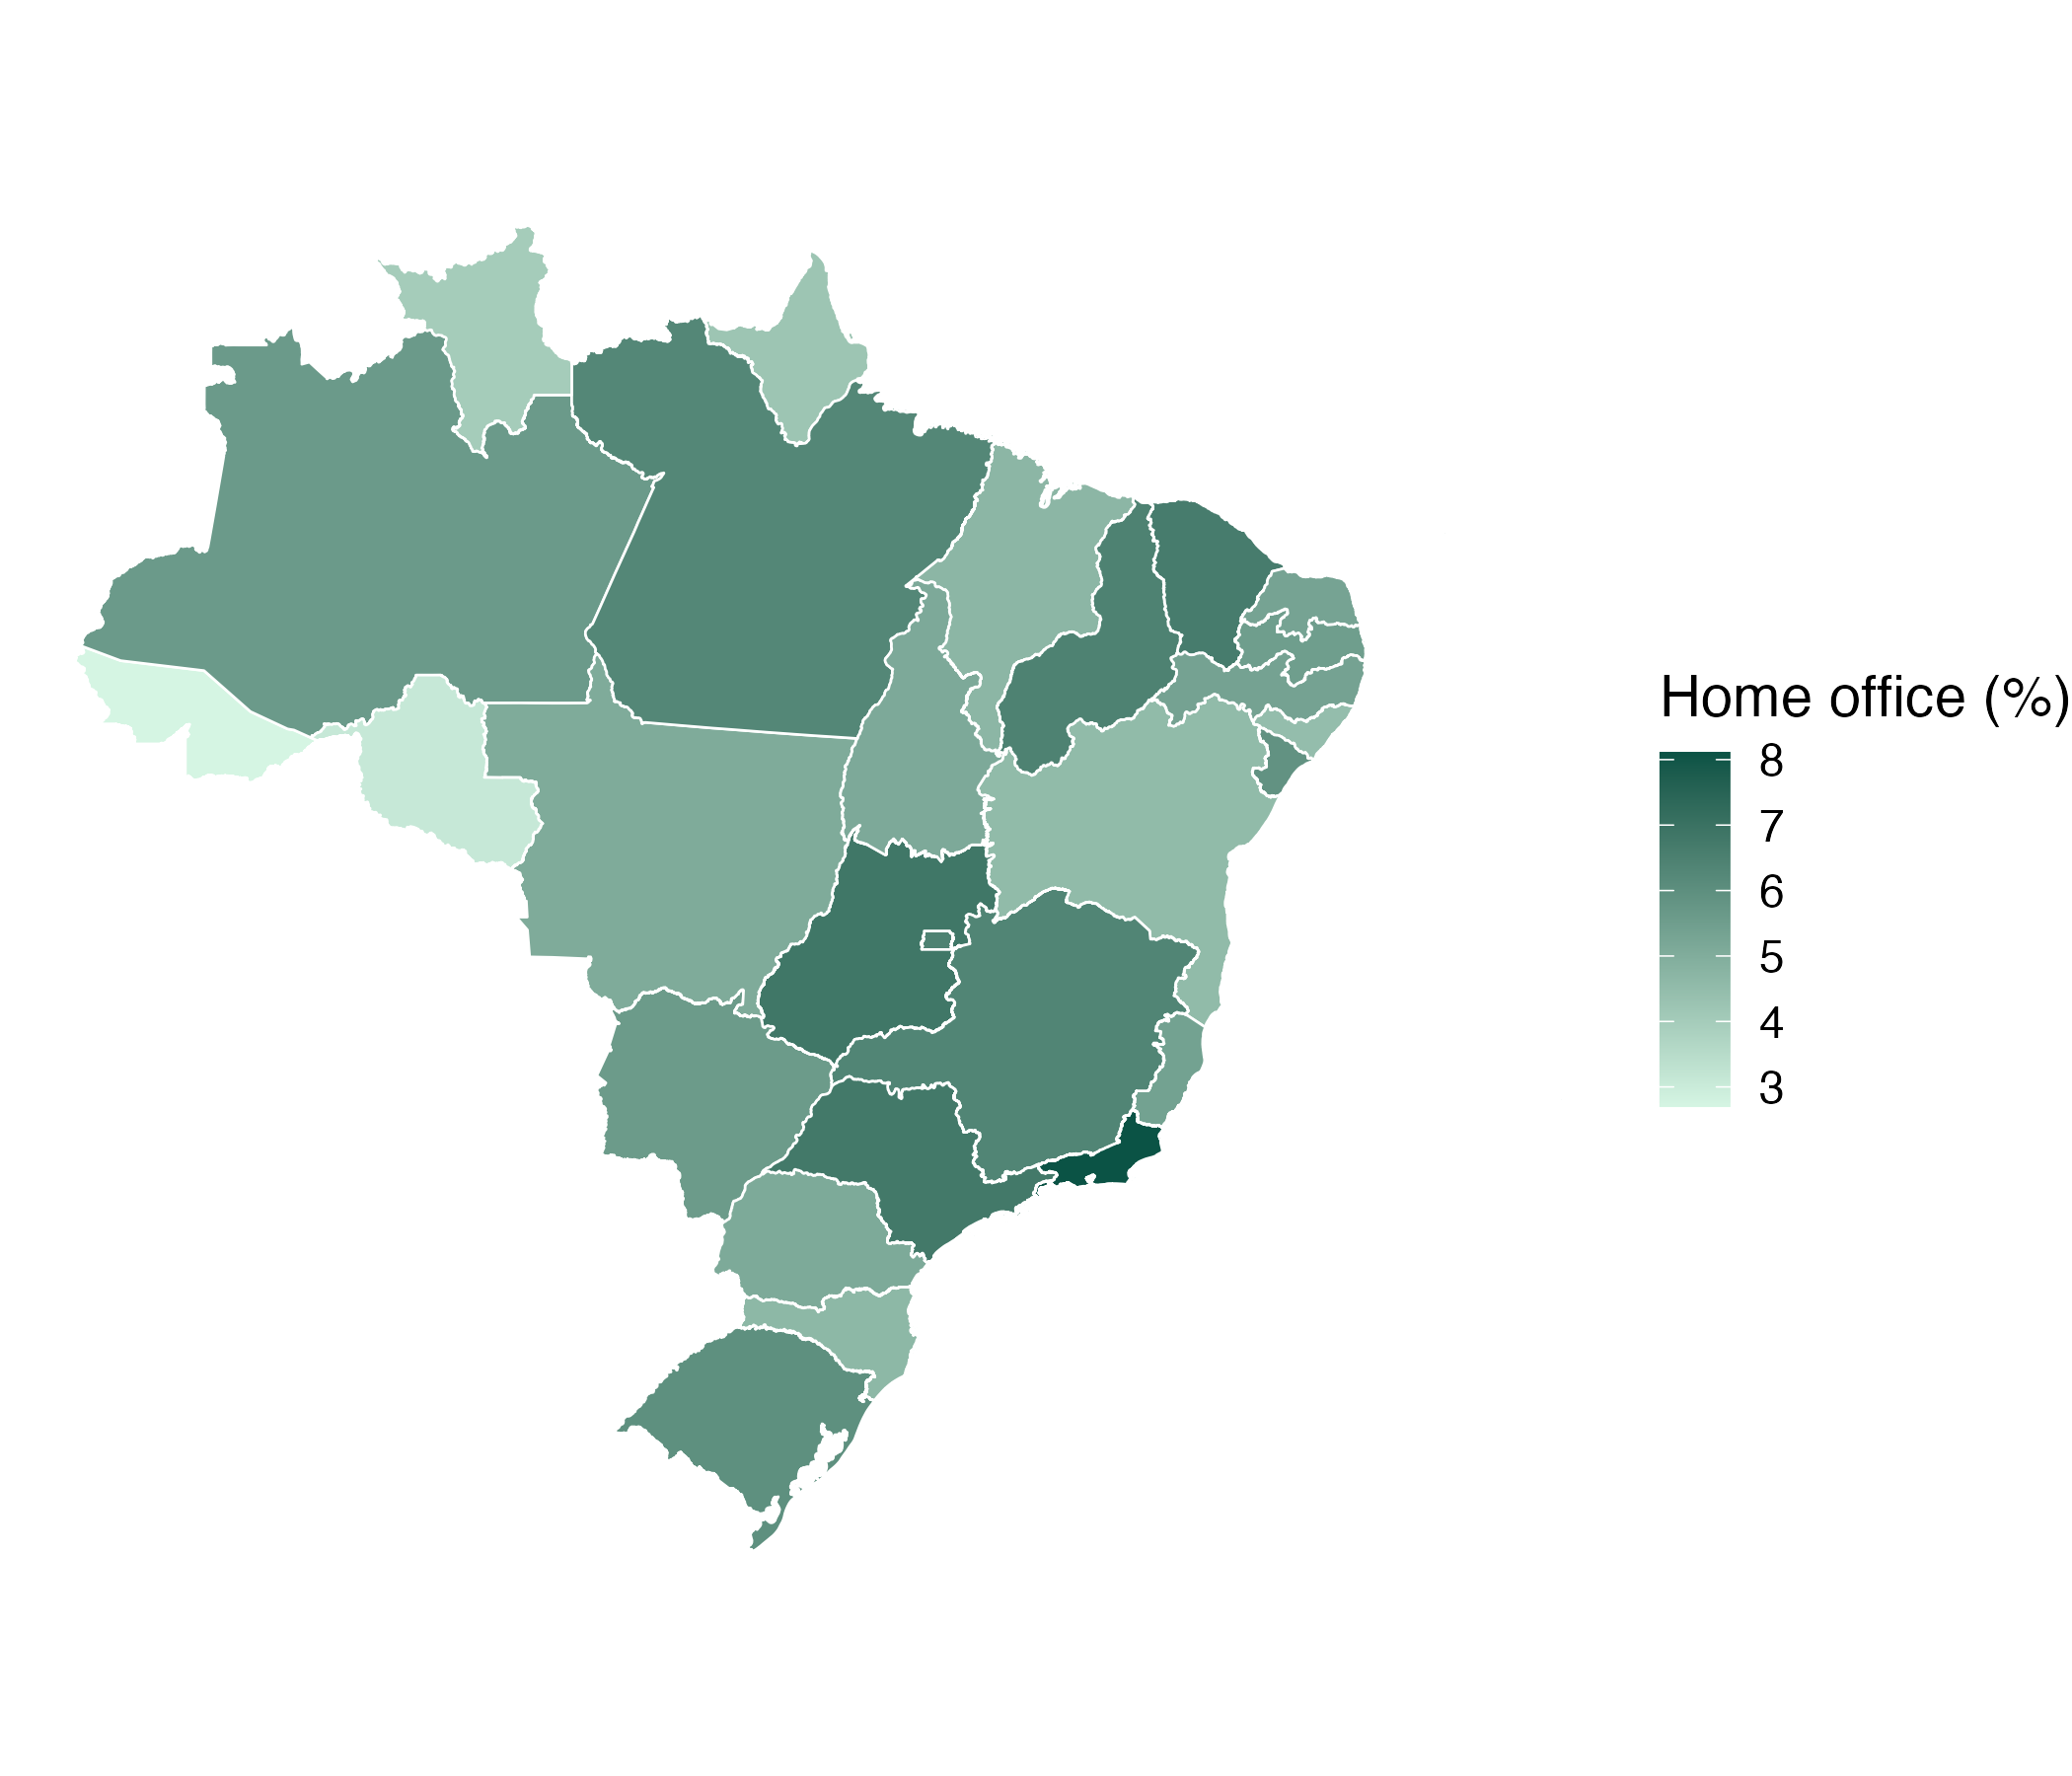
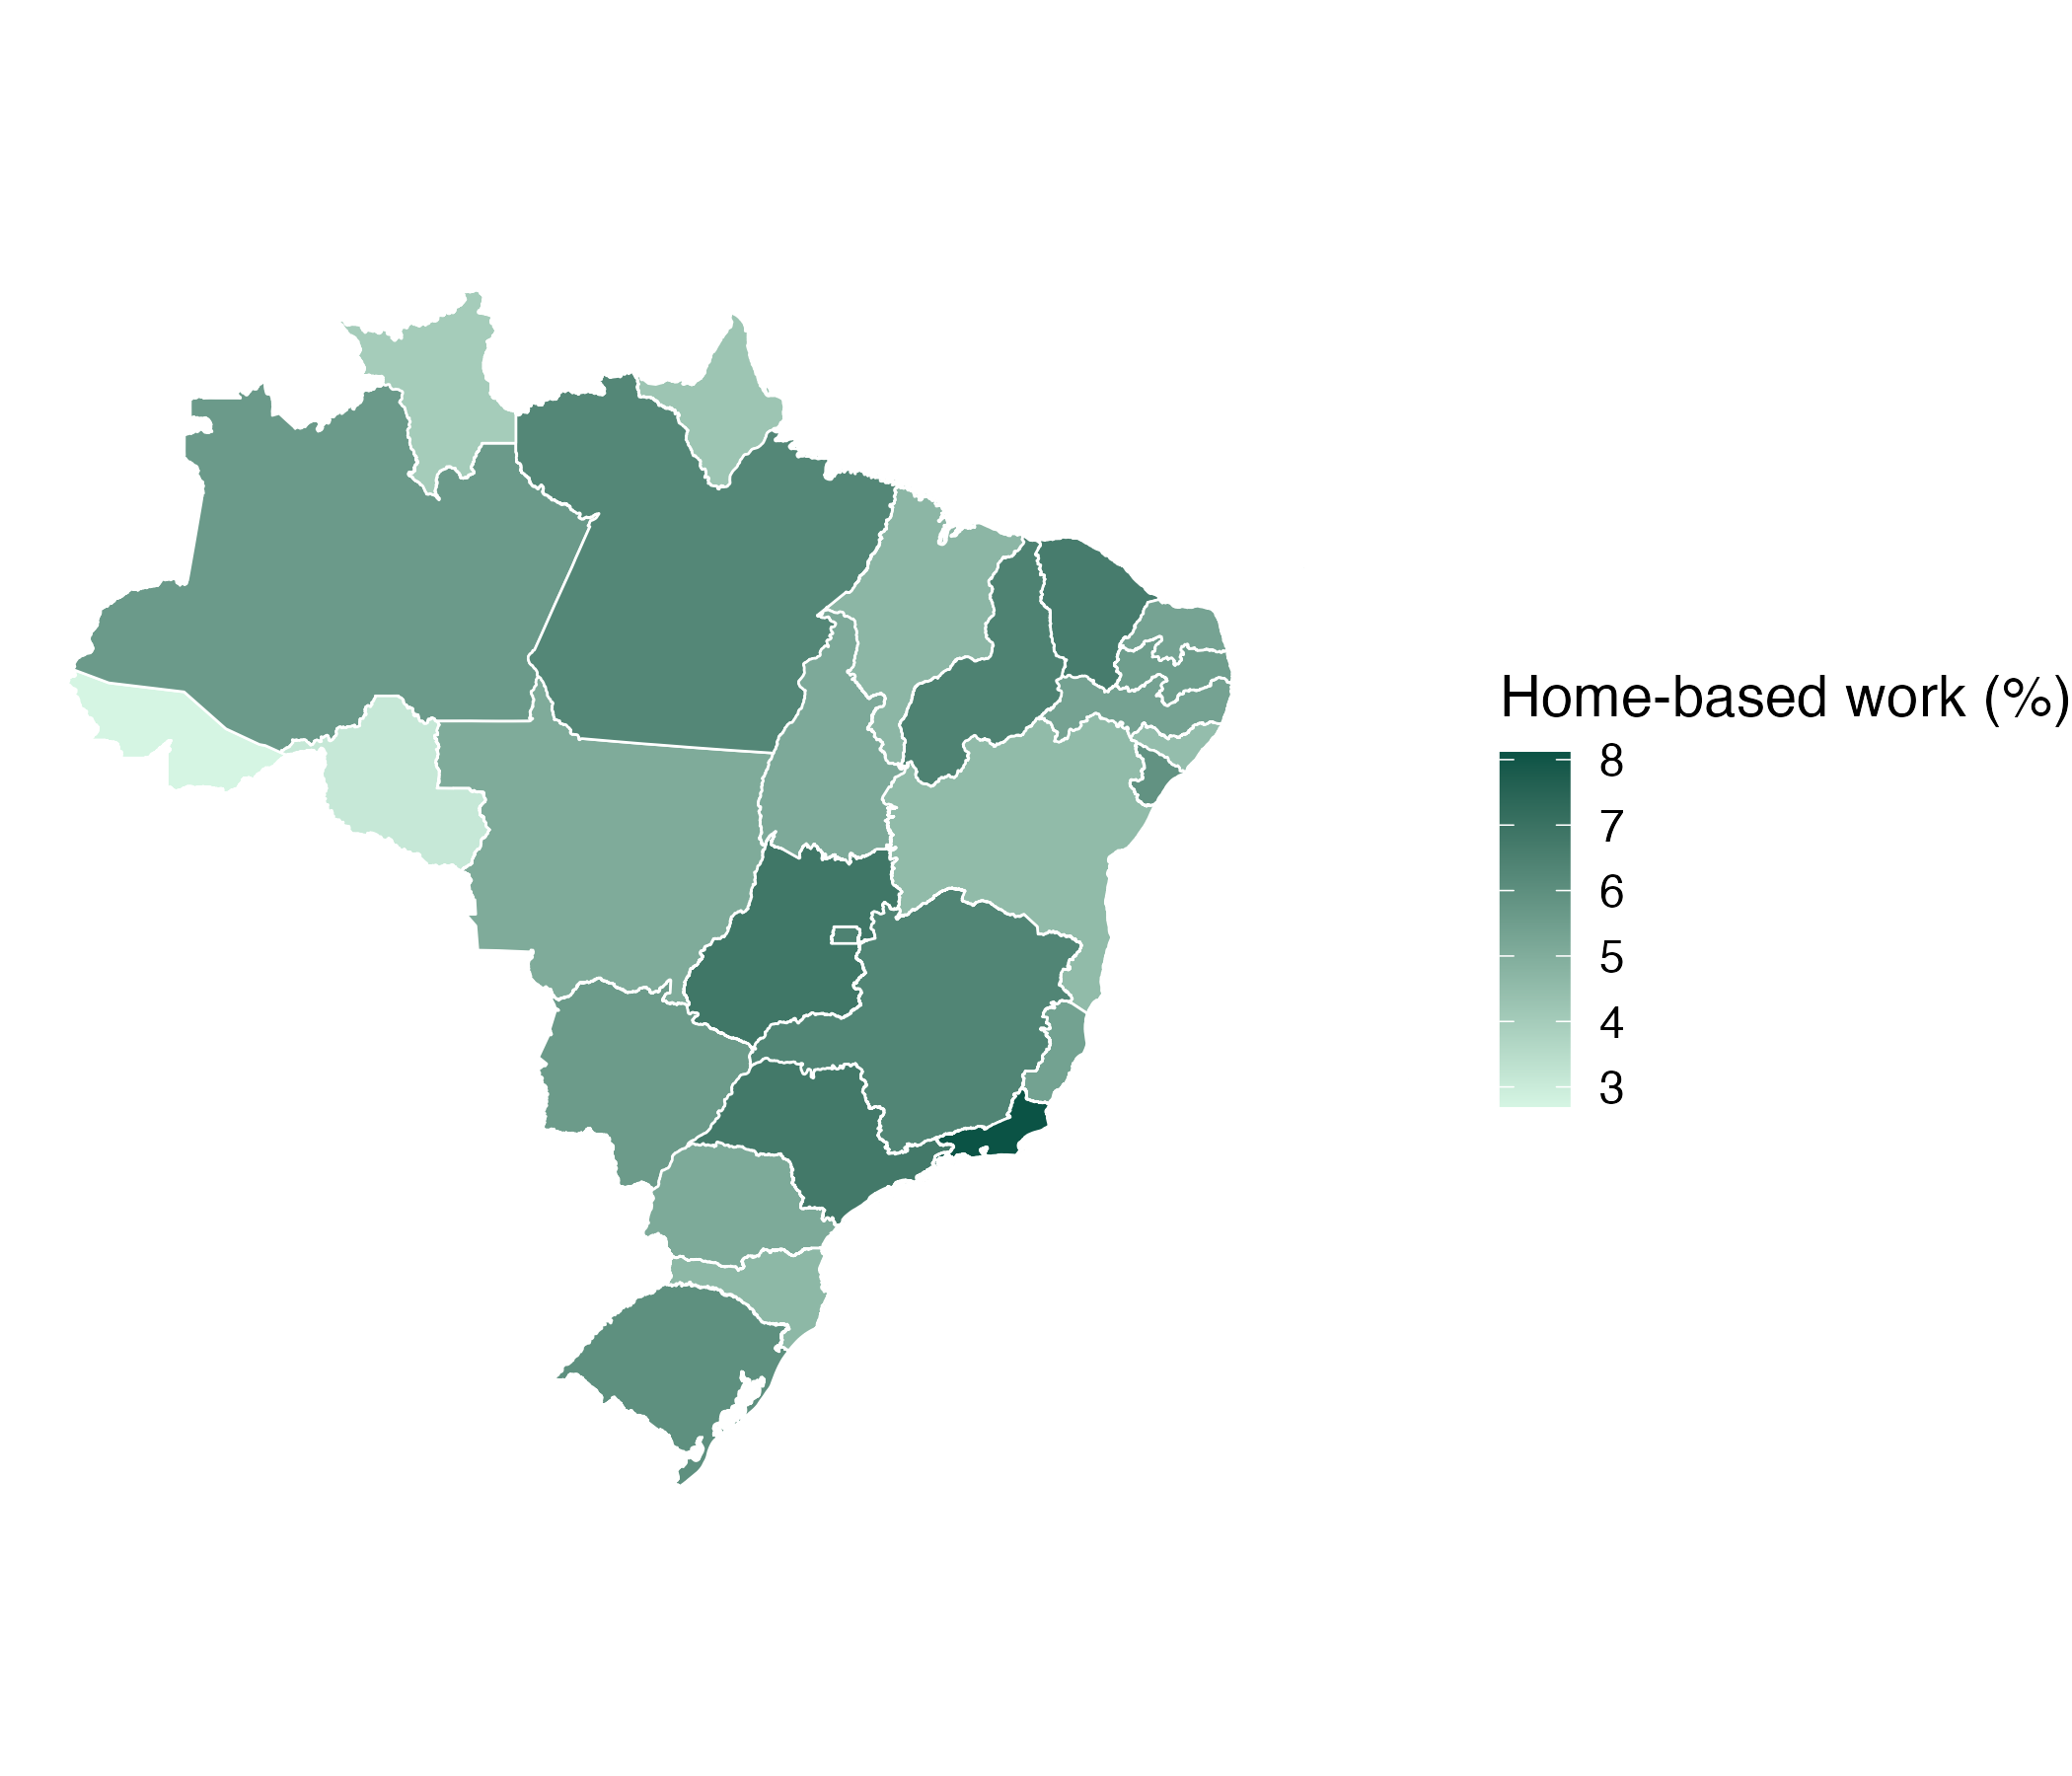
Important adjustments

Changed region(s): [[0.031, 0.1244, 0.681, 0.8711], [0.7119, 0.3733, 0.9595, 0.6222], [0.2786, 0.28, 0.3095, 0.3111]]

diff --git a/latex/appendix.tex b/latex/appendix.tex
@@ -20,9 +20,9 @@ This section defines the derived variables used in the analysis that are not alr
 \begin{itemize}
 \item \textbf{In the labor force} --- employed or actively searching for work; defined for every sample woman.
 \item \textbf{Employed} --- in the labor force and occupied. Women outside the labor force are coded zero rather than missing, so the outcome is the share employed among all women, not the share among labor-force participants.
-\item \textbf{Formal / informal} --- the formal indicator covers workers with a signed work card (private-sector, domestic, or public), the military and statutory public servants, and self-employed workers who contribute to social security; all others are informal. It is broader than the CLT.
-\item \textbf{Private, signed-card (CLT)} --- private-sector employees with a signed work card, the workers Article 75-F directly binds.
-\item \textbf{Private / public employee} --- an employee of a private-sector firm / of the public sector (including statutory servants), by the survey's position-in-employment classification.
+\item \textbf{Formal / informal} --- the formal indicator covers workers with a signed work card (private-sector, domestic, or public), the military and statutory civil servants, and self-employed workers who contribute to social security; all others are informal. It is broader than the CLT.
+\item \textbf{CLT (\emph{celetista})} --- signed-card (\emph{carteira assinada}) employees in the private sector or in public companies and mixed-economy firms (which hire under the CLT, e.g.\ Banco do Brasil, Caixa Econ\^omica, Petrobras, the postal service), i.e.\ employees under the CLT regime; this is the group Article 75-F directly binds. Statutory civil servants (governed by the separate public-service statute), the self-employed, and employers are excluded. A narrower private-sector-only version of this indicator is used as a robustness split.
+\item \textbf{Private / public employee} --- an employee of a private-sector firm / of the public sector (including statutory civil servants), by the survey's position-in-employment classification.
 \item \textbf{Telework-eligible occupation} --- the worker's occupation is on the teleworkable list of \citet{goes2020} and \citet{costa2024}; see Appendix~\ref{app:telework}.
 \item \textbf{Higher education} --- has completed a tertiary degree.
 \item \textbf{Youngest child's age in months} --- used only for the exact-birthdate robustness in Table~\ref{tab:robustness}. The age of the household's youngest child, reconstructed from the reported month and year of birth and evaluated at the midpoint of the reference quarter; because the survey does not release the exact interview date, within-quarter timing leaves at most about six weeks of measurement error, and the day of birth is deliberately not used, as sub-monthly precision would be spurious. About 7\% of children under four lack a usable birth date, and their households drop from the exact-birthdate rows but remain in every completed-year specification, which is why the analysis uses completed-year age throughout and reserves the birth-date measure for that single check.
@@ -64,7 +64,7 @@ COD major group & Four-digit COD codes included & Representative occupations \\
 
 The main outcome is an indicator for performing the main job at the worker's own residence. This measures the physical location of work rather than a contractual telework arrangement, so it captures employee telework together with home-based self-employment. To gauge how well it proxies for telework, I compare it with IBGE's experimental 2022 telework supplement (Table 9471 of the PNADC), which asks employed persons whether, in 2022, they did remote work, telework, or telework performed at their residence, and reports the resulting shares by state. The supplement is released only as an aggregate state-level table, so the comparison is cross-sectional and cannot be carried out at the individual level; its universe (employed persons aged 14 or older, both sexes) also differs slightly from the estimation sample (aged 18--49), so the exercise concerns the spatial pattern and the order of magnitude rather than an exact level match.
 
-Table~\ref{tab:proxy_validation} reports the comparison and Figure~\ref{fig:validation} plots it. Three facts emerge. First, the aggregate magnitudes agree: the proxy classifies about 6.5\% of the employed as working from home in 2022, close to the 7.2\% the supplement records as telework performed at home (Panel~A). Second, the proxy tracks the official measure across space: over the 27 states its employment-weighted correlation with the supplement's telework-at-home rate is $0.72$ (the unweighted correlation, $0.53$, is attenuated by the small northern states that the supplement itself flags as high-variance experimental estimates), and the states with the most telework (the Federal District, S\~ao Paulo, Rio de Janeiro) are also those where the proxy is highest (Figure~\ref{fig:validation}). Third, and most relevant to the interpretation, home-based work in the proxy is concentrated among the self-employed (about 19\% of them work from home, reflecting home businesses) and is low among the employees, and specifically the private-sector CLT employees, that Article~75-F binds (under 3\%; Panel~B). This is the measurement counterpart of the paper's central point: the location proxy overstates ``telework'' where the law does not reach and understates the reach of a priority that binds only formal employees, which is why the effect is estimated separately on the predetermined CLT and teleworkable subgroups (Table~\ref{tab:estimands}).
+Table~\ref{tab:proxy_validation} reports the comparison and Figure~\ref{fig:validation} plots it. Three facts emerge. First, the aggregate magnitudes agree: the proxy classifies about 6.5\% of the employed as working from home in 2022, close to the 7.2\% the supplement records as telework performed at home (Panel~A). Second, the proxy tracks the official measure across space: over the 27 states its employment-weighted correlation with the supplement's telework-at-home rate is $0.72$ (the unweighted correlation, $0.53$, is attenuated by the small northern states that the supplement itself flags as high-variance experimental estimates), and the states with the most telework (the Federal District, S\~ao Paulo, Rio de Janeiro) are also those where the proxy is highest (Figure~\ref{fig:validation}). Third, and most relevant to the interpretation, home-based work in the proxy is concentrated among the self-employed (about 19\% of them work from home, reflecting home businesses) and is low among the employees, and specifically the CLT (\emph{celetista}) employees, that Article~75-F binds (under 3\%; Panel~B). This is the measurement counterpart of the paper's central point: the location proxy overstates ``telework'' where the law does not reach and understates the reach of a priority that binds only CLT employees, which is why the effect is estimated separately on the predetermined CLT and teleworkable subgroups (Table~\ref{tab:estimands}).
 
 \input{../analysis/output/tables/tab14_proxy_validation.tex}
 
@@ -78,7 +78,7 @@ Table~\ref{tab:proxy_validation} reports the comparison and Figure~\ref{fig:vali
 \clearpage
 \section{Additional tables and figures}\label{app:additional}
 
-This appendix collects the supplementary tables and figures, ordered as they are cited in the text. Table~\ref{tab:robustness} collects the robustness checks on the home-based-work effect discussed in Section~\ref{sec:robustness}. Tables~\ref{tab:inference}, \ref{tab:attrition}, and~\ref{tab:identification} report, respectively, the inference and alternative-estimator checks (state clustering, the wild cluster bootstrap, the repeated-cross-section and local difference-in-discontinuities estimators, and the temporal placebo), the differential-attrition and inverse-probability-weighted estimates, and the decomposition of the identifying variation, all discussed in Section~\ref{sec:inference}. Figure~\ref{fig:event_maternity} shows the event study for maternity leave, which exhibits the pronounced pre-reform trend discussed in the text and motivates treating that outcome as non-causal. Table~\ref{tab:occ_transition} reports the occupation-transition matrix underlying the mechanism discussion, and Figure~\ref{fig:hetero} summarizes the subgroup estimates of Table~\ref{tab:heterogeneity} as a coefficient plot. Figure~\ref{fig:window} reports the control-window robustness. Table~\ref{tab:triple_diff_outcomes} extends the triple difference to all outcomes, and Figure~\ref{fig:trends_eligible} plots home-office trends for women in telework-eligible occupations at baseline. Table~\ref{tab:did_outcomes_B} repeats the difference-in-differences estimates using the broad comparison group (women with no child aged 0--7), which delivers more precision at the cost of a less tightly matched counterfactual; the conclusions are unchanged. Finally, Figure~\ref{fig:lfp} plots labor-force participation and employment trends by group.
+This appendix collects the supplementary tables and figures, ordered as they are cited in the text. Table~\ref{tab:robustness} collects the robustness checks on the home-based-work effect discussed in Section~\ref{sec:robustness}. Tables~\ref{tab:inference}, \ref{tab:attrition}, and~\ref{tab:identification} report, respectively, the inference and alternative-estimator checks (state clustering, the wild cluster bootstrap, the repeated-cross-section and local difference-in-discontinuities estimators, and the temporal placebo), the differential-attrition and inverse-probability-weighted estimates, and the decomposition of the identifying variation, all discussed in Section~\ref{sec:inference}. Tables~\ref{tab:did_outcomes_A} and~\ref{tab:earnings_margins} report the secondary labor-market outcomes under the primary comparison group and the worker-conditional and unconditional earnings and hours margins discussed in Section~\ref{sec:results}. Figure~\ref{fig:event_maternity} shows the event study for maternity leave, which exhibits the pronounced pre-reform trend discussed in the text and motivates treating that outcome as non-causal. Table~\ref{tab:occ_transition} reports the occupation-transition matrix underlying the mechanism discussion, and Figure~\ref{fig:hetero} summarizes the subgroup estimates of Table~\ref{tab:heterogeneity} as a coefficient plot. Figure~\ref{fig:window} reports the control-window robustness. Table~\ref{tab:triple_diff} reports the triple difference on home-based work and Table~\ref{tab:triple_diff_outcomes} extends it to all outcomes, and Figure~\ref{fig:trends_eligible} plots home-based-work trends for women in telework-eligible occupations at baseline. Table~\ref{tab:did_outcomes_B} repeats the difference-in-differences estimates using the broad comparison group (women with no child aged 0--7), which delivers more precision at the cost of a less tightly matched counterfactual; the conclusions are unchanged. Finally, Figure~\ref{fig:lfp} plots labor-force participation and employment trends by group.
 
 \input{../analysis/output/tables/tab07_robustness.tex}
 
@@ -91,7 +91,7 @@ This appendix collects the supplementary tables and figures, ordered as they are
 \begin{figure}[H]
 \centering
 \includegraphics[width=0.82\textwidth]{fig09_event_study_maternity.pdf}
-\caption{Event study: maternity leave around the reform. Constructed exactly as Figure~\ref{fig:event_home}. The pronounced pre-reform trend in the treated-versus-control gap indicates that the parallel-trends assumption fails for this outcome, which is therefore not interpreted causally: a joint Wald test rejects that the pre-reform coefficients are jointly zero for both comparison groups ($\chi^2(16)=282$, $p<0.001$ for Control~A; $\chi^2(16)=889$, $p<0.001$ for Control~B), in contrast to the home-office event study in Figure~\ref{fig:event_home}.}
+\caption{Event study: maternity leave around the reform. Constructed exactly as Figure~\ref{fig:event_home}. The pronounced pre-reform trend in the treated-versus-control gap indicates that the parallel-trends assumption fails for this outcome, which is therefore not interpreted causally: a joint Wald test rejects that the pre-reform coefficients are jointly zero for both comparison groups ($\chi^2(16)=282$, $p<0.001$ for Control~A; $\chi^2(16)=889$, $p<0.001$ for Control~B), in contrast to the home-based-work event study in Figure~\ref{fig:event_home}.}
 \label{fig:event_maternity}
 \end{figure}
 
@@ -111,14 +111,20 @@ This appendix collects the supplementary tables and figures, ordered as they are
 \label{fig:window}
 \end{figure}
 
+\input{../analysis/output/tables/tab08_triple_diff.tex}
+
 \input{../analysis/output/tables/tab08b_triple_diff_outcomes.tex}
 
 \begin{figure}[H]
 \centering
 \includegraphics[width=0.85\textwidth]{fig04_home_office_telework_eligible.pdf}
-\caption{Home office rate by group and quarter, women in telework-eligible occupations at baseline. Constructed as Figure~\ref{fig:trends} but restricted to women whose occupation is telework-eligible, the only group for whom the priority is not vacuous. The rate is higher than in the full sample but still rises in parallel across groups, with no break for treated women at the reform.}
+\caption{Home-based work rate by group and quarter, women in telework-eligible occupations at baseline. Constructed as Figure~\ref{fig:trends} but restricted to women whose occupation is telework-eligible, the only group for whom the priority is not vacuous. The rate is higher than in the full sample but still rises in parallel across groups, with no break for treated women at the reform.}
 \label{fig:trends_eligible}
 \end{figure}
+
+\input{../analysis/output/tables/tab03a_did_outcomes_A.tex}
+
+\input{../analysis/output/tables/tab15_earnings_margins.tex}
 
 \input{../analysis/output/tables/tab03b_did_outcomes_B.tex}
 

diff --git a/analysis/output/tables/tab16_statutory_reach.tex b/analysis/output/tables/tab16_statutory_reach.tex
@@ -1,0 +1,16 @@
+\begin{table}[H]\centering
+\caption{Potential Statutory Reach among Women with a Young Child}
+\label{tab:reach}\small
+\begin{tabular}{lc}
+\toprule
+Step & Weighted share (\%) \\
+\midrule
+All women with a child aged 0--4 & 100.0 \\
+Employed & 50.2 \\
+Salaried employees & 30.8 \\
+CLT (celetista, private or public) & 18.9 \\
+CLT in a telework-eligible occupation & 6.1 \\
+CLT, telework-eligible, and not already working from home & 5.9 \\
+\bottomrule\end{tabular}
+\par\vspace{3pt}\footnotesize\raggedright \textit{Notes:} Survey-weighted shares of all women aged 18--49 who are household heads or spouses and have a child aged 0--4, each taken at her last observation on or before 2022Q1 (predetermined). The steps are nested: salaried employees (VD4009 $\in\{1,\dots,6\}$) contain the celetistas covered by Article~75-F (signed-card employees in the private or public sector, VD4009 $\in\{1,5\}$; public-sector celetistas are the employees of public companies and mixed-economy firms), who contain those in a telework-eligible occupation, who contain those not already working from home. This reach accounting is descriptive rather than causal: occupational teleworkability does not imply that an employer has an available remote position, but it shows how quickly the potentially affected population narrows. All regressions are weighted by the survey weights.
+\end{table}

diff --git a/analysis/output/tables/tab06_heterogeneity.tex b/analysis/output/tables/tab06_heterogeneity.tex
@@ -9,8 +9,8 @@
 \multicolumn{5}{l}{\textit{By formality}} \\
 $\quad$ Formal & -1.01$^{}$ (0.85) & 0.232 & 1.00 & 143,959 \\
 $\quad$ Informal & 0.26$^{}$ (0.55) & 0.633 & 1.00 & 412,112 \\
-$\quad$ Private, signed card (CLT) & -1.37$^{}$ (1.17) & 0.240 & 1.00 & 81,909 \\
-$\quad$ Non-CLT & 0.21$^{}$ (0.50) & 0.670 & 1.00 & 474,162 \\
+$\quad$ CLT (private or public) & -1.32$^{}$ (1.12) & 0.240 & 1.00 & 85,892 \\
+$\quad$ Non-CLT & 0.21$^{}$ (0.50) & 0.671 & 1.00 & 470,179 \\
 \midrule
 \multicolumn{5}{l}{\textit{By sector}} \\
 $\quad$ Private employee & -0.91$^{}$ (1.01) & 0.367 & 1.00 & 103,916 \\
@@ -29,8 +29,8 @@ $\quad$ Single mother & -2.59$^{**}$ (1.19) & 0.029 & 0.44 & 82,525 \\
 $\quad$ Partnered mother & 0.41$^{}$ (0.50) & 0.410 & 1.00 & 473,546 \\
 \midrule
 \multicolumn{5}{l}{\textit{Single mothers, by contract type}} \\
-$\quad$ Single mother, CLT & -0.31$^{}$ (1.92) & 0.873 & --- & 12,951 \\
-$\quad$ Single mother, non-CLT & -3.18$^{**}$ (1.40) & 0.023 & --- & 69,574 \\
+$\quad$ Single mother, CLT & -0.31$^{}$ (1.86) & 0.867 & --- & 13,461 \\
+$\quad$ Single mother, non-CLT & -3.20$^{**}$ (1.41) & 0.023 & --- & 69,064 \\
 \midrule
 \multicolumn{5}{l}{\textit{By age band}} \\
 $\quad$ Age 18--29 & 0.01$^{}$ (0.87) & 0.991 & 1.00 & 179,506 \\

diff --git a/analysis/output/tables/tab09_estimands.tex b/analysis/output/tables/tab09_estimands.tex
@@ -9,10 +9,10 @@ Subsample (predetermined) & Young child $\times$ Post (se) & 95\% CI & Pre-mean 
 All women (population-average exposure) & -0.08$^{}$ (0.30) & [-0.67, 0.51] & 4.6 & 989,898 & 310,960 \\
 Employed at baseline & -0.61$^{}$ (0.72) & [-2.02, 0.79] & 7.7 & 277,301 & 86,342 \\
 Salaried employees at baseline & -1.01$^{}$ (0.75) & [-2.48, 0.47] & 1.9 & 156,533 & 49,972 \\
-Private, signed-card (CLT) at baseline & -1.37$^{}$ (1.17) & [-3.66, 0.92] & 1.7 & 81,909 & 25,898 \\
+CLT (private or public) at baseline & -1.32$^{}$ (1.12) & [-3.52, 0.88] & 1.6 & 85,892 & 27,082 \\
 Self-employed at baseline & 0.45$^{}$ (2.32) & [-4.09, 4.99] & 27.4 & 64,782 & 19,987 \\
 Telework-eligible occupation at baseline & -0.59$^{}$ (1.73) & [-3.97, 2.79] & 7.3 & 71,769 & 21,598 \\
-CLT $\times$ telework-eligible at baseline & -0.94$^{}$ (3.22) & [-7.25, 5.38] & 3.1 & 25,022 & 7,674 \\
+CLT $\times$ telework-eligible at baseline & -0.89$^{}$ (3.05) & [-6.86, 5.08] & 2.9 & 26,874 & 8,219 \\
 \bottomrule\end{tabular}}
 \par\vspace{3pt}\footnotesize\raggedright \textit{Notes:} The outcome is an indicator for performing the main job at the worker's own residence (home-based work as measured in the PNADC); non-employed women are coded zero, so in the first row the estimand is the population-average effect on the share of \emph{all} women working from home. Each row re-estimates Eq.~\eqref{eq:did} on the subsample of women who were in the stated group at their \emph{last observation on or before 2022Q1} (predetermined, so not itself an outcome of the reform); women with no pre-reform observation are excluded. Coefficients are in percentage points; ``Pre-mean'' is the survey-weighted pre-reform home-based-work rate among treated women in each subsample. The first row is the population-average (exposure) estimand; the CLT and CLT $\times$ telework-eligible rows are the effect among the workers Article~75-F can legally reach. All regressions are weighted by the survey weights. Standard errors are clustered at the household level in parentheses. Significance levels: *** $p<0.01$, ** $p<0.05$, * $p<0.10$.
 \end{table}

diff --git a/analysis/output/tables/tab10_equivalence.tex b/analysis/output/tables/tab10_equivalence.tex
@@ -9,10 +9,10 @@ Subsample & Estimate (se) & 95\% CI & SESOI & TOST $p$ & Verdict \\
 All women (population-average exposure) & -0.08 (0.30) & [-0.67, 0.51] & $\pm$0.5 & 0.082 & Inconclusive \\
 Employed at baseline & -0.61 (0.72) & [-2.02, 0.79] & $\pm$1.0 & 0.294 & Inconclusive \\
 Salaried employees at baseline & -1.01 (0.75) & [-2.48, 0.47] & $\pm$1.0 & 0.503 & Inconclusive \\
-Private, signed-card (CLT) at baseline & -1.37 (1.17) & [-3.66, 0.92] & $\pm$1.0 & 0.625 & Inconclusive \\
+CLT (private or public) at baseline & -1.32 (1.12) & [-3.52, 0.88] & $\pm$1.0 & 0.612 & Inconclusive \\
 Self-employed at baseline & 0.45 (2.32) & [-4.09, 4.99] & $\pm$1.0 & 0.406 & Inconclusive \\
 Telework-eligible occupation at baseline & -0.59 (1.73) & [-3.97, 2.79] & $\pm$1.0 & 0.406 & Inconclusive \\
-CLT $\times$ telework-eligible at baseline & -0.94 (3.22) & [-7.25, 5.38] & $\pm$1.0 & 0.492 & Inconclusive \\
+CLT $\times$ telework-eligible at baseline & -0.89 (3.05) & [-6.86, 5.08] & $\pm$1.0 & 0.485 & Inconclusive \\
 \bottomrule\end{tabular}}
 \par\vspace{3pt}\footnotesize\raggedright \textit{Notes:} Estimates (percentage points) and 95\% confidence intervals reproduce Table~\ref{tab:estimands}. The smallest effect size of interest (SESOI) is pre-specified at $0.5$ pp for the full population and $1.0$ pp for the narrower legally-covered subgroups. ``TOST $p$'' is the $p$-value of the two-one-sided-tests equivalence test against that SESOI: a value below $0.05$ (verdict ``Equivalent'') means the effect is statistically distinguishable from anything as large as the SESOI, i.e. a precise null. ``Inconclusive'' means the data neither reject zero nor establish equivalence, so a substantively relevant effect cannot be ruled out. Significance levels: *** $p<0.01$, ** $p<0.05$, * $p<0.10$.
 \end{table}

diff --git a/analysis/output/tables/tab14_proxy_validation.tex b/analysis/output/tables/tab14_proxy_validation.tex
@@ -13,7 +13,7 @@ $\quad$ Any remote work (2022 supplement) & 9.8 \\
 \midrule
 \multicolumn{2}{l}{\textit{B. Home-based-work proxy by position in employment, 2022}} \\
 $\quad$ Employees (signed-card or public) & 2.6 \\
-$\quad$ Private, signed-card (CLT) & 2.9 \\
+$\quad$ CLT (celetista, private or public) & 2.8 \\
 $\quad$ Self-employed & 19.4 \\
 $\quad$ Employers & 5.2 \\
 \midrule
@@ -22,5 +22,5 @@ $\quad$ Pearson correlation, employment-weighted & 0.72 \\
 $\quad$ Pearson correlation, unweighted & 0.53 \\
 $\quad$ Spearman rank correlation & 0.44 \\
 \bottomrule\end{tabular}
-\par\vspace{3pt}\footnotesize\raggedright \textit{Notes:} Cross-sectional validation of the home-based-work proxy (main job performed at the worker's own residence, V4022 $\in\{4,5\}$) against IBGE's experimental 2022 telework supplement (Table 9471), which reports, by state, the share of employed persons aged 14 or older who did remote work, telework, or telework at home in 2022. Panel~A compares aggregate magnitudes: the proxy (6--7\% of the employed) is close to the supplement's telework-at-home rate. Panel~B shows the proxy by position in employment: home-based work is concentrated among the self-employed (home businesses) and is low among the employees, and among the private-sector CLT employees, that the statute binds---which is why the paper reports the effect on those predetermined subgroups separately (Table~\ref{tab:estimands}). Panel~C reports the cross-state association between the proxy (share of the employed in main\_data, aged 18--49) and the supplement's telework-at-home rate over the 27 states; the employment-weighted correlation is higher than the unweighted one because the small northern states, which the supplement flags as high-variance experimental estimates, are noisy. The supplement is an aggregate state-level table and cannot be linked at the individual level, so this is a cross-sectional check, not a person-level match.
+\par\vspace{3pt}\footnotesize\raggedright \textit{Notes:} Cross-sectional validation of the home-based-work proxy (main job performed at the worker's own residence, V4022 $\in\{4,5\}$) against IBGE's experimental 2022 telework supplement (Table 9471), which reports, by state, the share of employed persons aged 14 or older who did remote work, telework, or telework at home in 2022. Panel~A compares aggregate magnitudes: the proxy (6--7\% of the employed) is close to the supplement's telework-at-home rate. Panel~B shows the proxy by position in employment: home-based work is concentrated among the self-employed (home businesses) and is low among the employees, and among the CLT (celetista) employees, that the statute binds---which is why the paper reports the effect on those predetermined subgroups separately (Table~\ref{tab:estimands}). Panel~C reports the cross-state association between the proxy (share of the employed in main\_data, aged 18--49) and the supplement's telework-at-home rate over the 27 states; the employment-weighted correlation is higher than the unweighted one because the small northern states, which the supplement flags as high-variance experimental estimates, are noisy. The supplement is an aggregate state-level table and cannot be linked at the individual level, so this is a cross-sectional check, not a person-level match.
 \end{table}

diff --git a/analysis/output/tables/tab01_descriptives.tex b/analysis/output/tables/tab01_descriptives.tex
@@ -9,7 +9,7 @@
 \cmidrule(lr){2-3} \cmidrule(lr){4-5} \cmidrule(lr){6-7}
  & Pre & Post & Pre & Post & Pre & Post \\
 \midrule
-Home office (\%) & 4.6 & 6.0 & 5.3 & 6.2 & 5.0 & 6.1 \\
+Home-based work (\%) & 4.6 & 6.0 & 5.3 & 6.2 & 5.0 & 6.1 \\
 In labor force (\%) & 59.8 & 58.3 & 68.9 & 68.8 & 74.1 & 76.1 \\
 Employed (\%) & 50.7 & 53.0 & 59.8 & 63.3 & 65.6 & 70.8 \\
 Real monthly earnings (R\$) & 2992 & 3100 & 2850 & 3135 & 3032 & 3209 \\

diff --git a/analysis/output/tables/tab08_triple_diff.tex b/analysis/output/tables/tab08_triple_diff.tex
@@ -1,6 +1,6 @@
 
 \begin{table}[H]
-   \caption{\label{tab:triple_diff} Triple Difference: Home Office, Men vs.\ Women}
+   \caption{\label{tab:triple_diff} Triple Difference: Home-Based Work, Men vs.\ Women}
    \centering
 \small\setlength{\tabcolsep}{5pt}
    \begin{tabular}{lccc}

diff --git a/CLAUDE.md b/CLAUDE.md
@@ -107,7 +107,8 @@ Dropbox/HomeOfficePNAD/build/{input/Panel_6..13.RData, output/main_data.RData}
 | `unemployed` | = 1 if in labor force AND not occupied, else 0. | Project |
 | `earnings_habitual_real` | Real habitual monthly earnings (all jobs, deflated). Renamed from datazoom's `rendimento_habitual_real` in `build_main_data()` (`build/01_pnadc.R`). **Enters outcome regressions as `log_earnings`** (log of positive earnings). | datazoom / Derived |
 | `formal` / `informal` | datazoom flags. `formal`=1 includes signed-card employees (private/domestic/public), military/statutory, AND INSS-contributing self-employed — broader than CLT. Employers (VD4009=8) are neither. | datazoom |
-| `clt_private` | = 1 if VD4009 == 1 (private-sector carteira-assinada = CLT). The **sharp "law binds here" group**; heterogeneity/placebo split only, never a restriction. | Derived |
+| `clt_covered` | = 1 if VD4009 ∈ {1,5} (signed-card employees, **private OR public sector**). The **correct "legally covered by Art. 75-F" group**: public-sector celetistas (empresas públicas / sociedades de economia mista — Banco do Brasil, Caixa, Petrobras, Correios) are hired under the CLT and ARE covered. Excludes statutory servants (VD4009==7), domestic (3), informal, self-employed. Canonical in `build/01_pnadc.R`; **also derived on-the-fly from VD4009 at the top of scripts 05/08/09 so no rebuild is needed**. Public CLT ≈ 1.8% of employed treated women, ≈4.8% of the covered pool → null unchanged, but fixes the coverage claim. **This is the group used for all "covered" estimands/heterogeneity/reach.** | Derived |
+| `clt_private` | = 1 if VD4009 == 1 (private-sector carteira-assinada). Kept as the **narrower robustness split** only; superseded by `clt_covered` as the headline "law binds here" group. | Derived |
 | `has_child_u4` | = 1 if head/spouse with child ≤4 (V2005 ∈ {4,5,6,10,11}: biological of head+spouse (4), of head (5), stepchild (6), grandchild (10), great-grandchild (11)). **Treatment.** | HH merge |
 | `has_child_u4_no_gc` / `_no_sc` / `_no_gc_sc` | Excluding grandchildren/great-grandchildren (V2005 ∈ {4,5,6}) / excluding stepchildren (∈ {4,5,10,11}) / excluding both (∈ {4,5}, biological children only). Robustness. | HH merge |
 | `has_child_5_7` (+ `_no_gc`/`_no_sc`/`_no_gc_sc`) | = 1 if head/spouse with youngest child 5–7. **Control A.** | HH merge |
@@ -276,3 +277,13 @@ The reviewer judged the revised paper submission-level; remaining fixes were tex
 - **Table 13 relabeled (C5):** "Decomposition of the Identifying Variation" → "**Eligibility Paths among Women Observed Before and After the Reform**"; §5.5 no longer claims stable-status women identify β "overwhelmingly" (counts ≠ econometric weight).
 - **Abstract (C6):** replaced with the reviewer's 143-word version (~134 words, under JoPE's 150 limit). Anonymized-repo link + DOIs still Fredie's to fill.
 - **Global:** added `analysis/output/sample_construction_counts.txt` (sample funnel; generated in `01_descriptives.R`) in lieu of a flowchart.
+
+### Round 3 (July 2026 — friend's read + second econ-GPT structural report; paper now 53 pp)
+Two feedback sets addressed together. **Institutional discovery (load-bearing):** public-sector CLT employees ARE covered by Art. 75-F. Public companies / mixed-economy firms (Banco do Brasil, Caixa, Petrobras, Correios) hire under the CLT, so their `empregados` are celetistas and covered; only *statutory* servants (servidores estatutários, VD4009==7) are outside. Fix = new **`clt_covered` = VD4009 ∈ {1,5}** (private + public signed-card), now the headline "legally covered" group everywhere; **`clt_private` (==1) demoted to a robustness split.** Derived on-the-fly from VD4009 in scripts 05/08/09 (no rebuild) + canonical in `build/01_pnadc.R`. Magnitude: public CLT ≈1.8% of employed treated, ≈4.8% of covered pool → **null unchanged** but the coverage claim is now correct. New numbers: CLT-covered estimand **−1.32pp, CI [−3.52, 0.88]**; CLT×teleworkable **−0.89pp, CI [−6.86, 5.08]** (replace the old [−3.66,0.92] / [−7.25,5.38] everywhere). Two labor-court news items (a Correios worker; a public bank-clerk *escriturária*) — both **public-CLT celetistas** — cited in a §2.1 footnote as illustration (Comment 3: litigation is highly selected, not evidence of take-up/compliance).
+- **New exhibit — statutory-reach funnel `tab16_statutory_reach.tex` (Table 3, main text §5.1, built in `08_referee_revision.R`):** weighted funnel among young-child women — 100% → employed 50.2 → salaried 30.8 → **CLT-covered 18.9** → CLT teleworkable 6.1 → not-yet-WFH **5.9**. Descriptive, not causal (`\label{tab:reach}`). This is the reviewer's preferred way to explain the null (vs. more heterogeneities).
+- **Structural moves to appendix (Comments 6, 7):** `tab03a` (outcomes A), `tab15` (earnings margins), and `tab08` (triple diff) **moved to appendix** (now §E). Main §5.2 renamed **"Secondary labor-market outcomes"** (short, 2 paras); §5.3 renamed **"Implementation margins: predetermined teleworkability and occupational sorting"** (was "Mechanisms"). DDD reframed as a **female-specific-response test** (added Eq. `eq:ddd`, "not an untreated control"); earnings/hours reframed as **secondary conditional results, NOT clean causal** (employment is post-treatment; flat conditional pre-trends don't fix compositional selection).
+- **Language purge (Comment 9):** every "precise/tight/genuine null" → "small and statistically insignificant"; "population-average null is precise" → "informative about large increases … does not establish equivalence at 0.5pp"; covered-group CIs described as too wide for equivalence.
+- **Comment 1 (intro):** 2nd paragraph reframed around **access to a non-wage job amenity** (employer-mediated, segmented market); added Mas–Pallais WTP heterogeneity + `lavetti2023` (new ref) on inferring amenity preferences from wage differentials; contribution sentence on "implementability of non-wage amenities in segmented labor markets".
+- **Comment 8:** Fig 1 caption notes the post-pandemic elevation is common to groups (absorbed by quarter FE); framing standardized to "limited causal evidence in **middle-income** labor markets" (no "developing countries" over-claim). TST/enforcement/shift-share extensions deliberately **NOT** pursued (reviewer agreed).
+- **Mechanical:** abstract opens "Beginning in March 2022"; "Monastério"→**"Monasterio"**; "public servants"→**"statutory civil servants"**; **bibliographystyle `plainnat` → `apalike`** (surname-first for all authors; JPopE-appropriate). Compiles clean, 53 pp, no undefined refs.
+- **Doc drift:** the appendix "Additional tables and figures" section is now **§E** (was cited as D in earlier rounds); exhibit map above still uses old D.x / "Table 3 precise zeros" wording — treat the numbers here as authoritative.